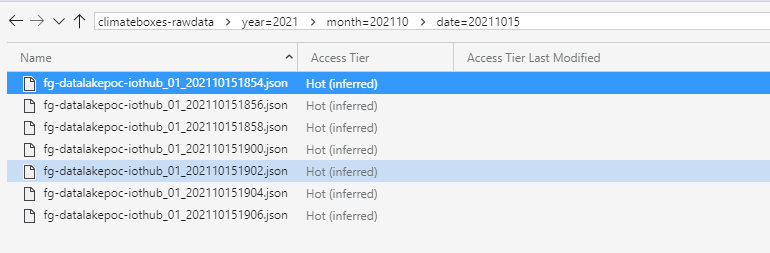
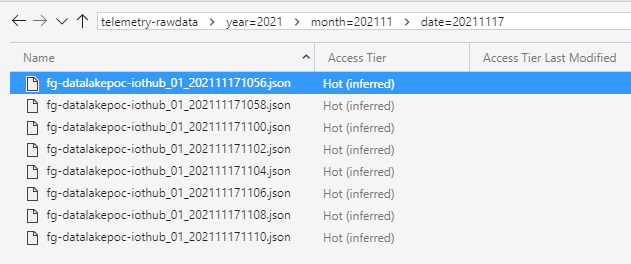
Update readme

diff --git a/readme.md b/readme.md
@@ -18,6 +18,7 @@ Create the required Azure resources by executing the following statement:
 ```azcli
 az deployment group create --subscription <subscriptionid> --resource-group <resourcegroupname> --template-file infrastructure.bicep --parameters synapse_admin_password=<your strong password>
 ```
+(It takes a while before this command finishes and all resources are provisioned)
 
 The password that you have specified, will be stored in the KeyVault resource that is deployed.
 
@@ -25,9 +26,12 @@ This deployment will also make sure that the Function App that is deployed and t
 
 ### Prepare the Synapse workspace
 
-Go to the Azure Portal and find the Azure Synapse resource that has been deployed in the previous step.
+Go to the Azure Portal and find the Azure Synapse resource that has been deployed in the previous step.  Open the Synapse Workspace via the *Workspace web URL* that can be found in the Overview blade.
 
-Execute the scripts that are found in the `create-rawdatabase.sql` and `create-user.sql` files via the Synapse Workspace.
+Execute the scripts that are found in the `create-rawdatabase.sql` and `create-user.sql` files via the Synapse Workspace.  Do this via the 'Develop' tab and make sure that you're connected to the 'Built-in' pool.
+
+> Make sure that the address of the DataLake is set correctly in those scripts.
+> Make sure that the name of the Function app is correctly set in the `create-user.sql` script.
 
 ## Running the solution
 
@@ -52,17 +56,17 @@ Verify if data is being received in IoT Hub:
 
 ![Number of messages received in IoT Hub](./static/img/iot-hub-number-of-messages-used.png)
 
-After a while, you should also that files are being created in the `climateboxes-rawdata` folder:
+After a while, you should also that files are being created in the `telemetry-rawdata` container that exists in the Data Lake storage account:
 
 ![Raw telemetry storage](./static/img/rawtelemetry-storage.png)
 
 ### Publish the RawDataProcessor solution to Azure
 
-Open the RawDataProcessor solution and publish the solution to the Function App that has been deployed in Azure.
+Open the RawDataProcessor solution and publish the solution to the (Linux) Function App that has been deployed in Azure.  This can easily be done from Visual Studio.NET but make sure that you select `linux-x64` as Target Runtime.
 
 Once deployed, the Function will start processing the raw telemetry that is dumped by IoT Hub in the datalake, and will convert it to parquet files that are also stored in the datalake.
 
-After some time, you'll see *.parquet files start appearing in the `parquet-contents` container:
+After some time, you'll see `*.parquet` files start appearing in the `parquet-contents` container:
 
 ![Parquet storage](./static/img/parquet-storage.png)
 
